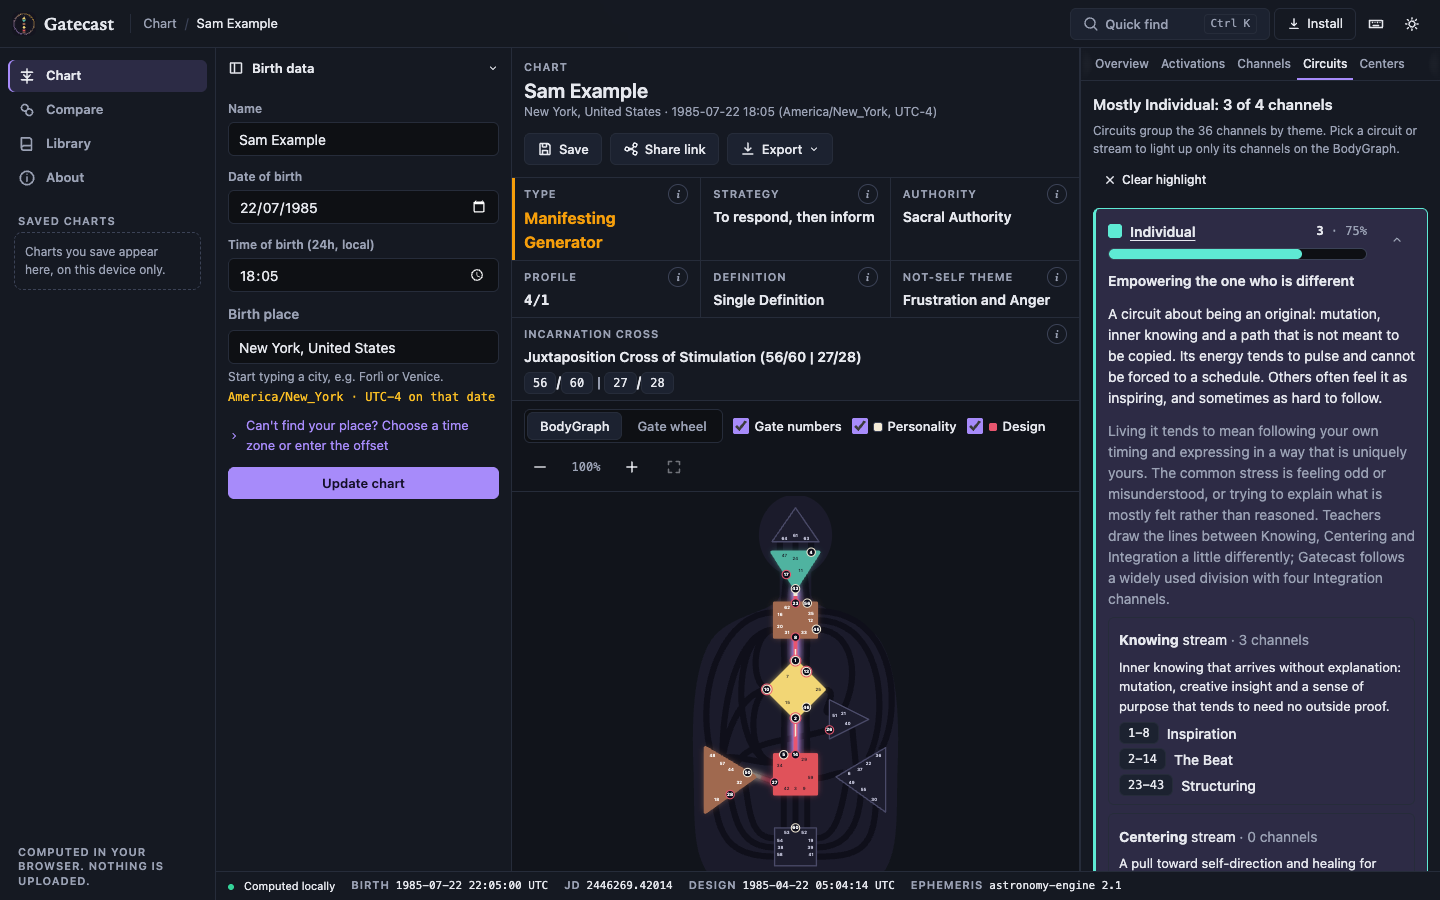
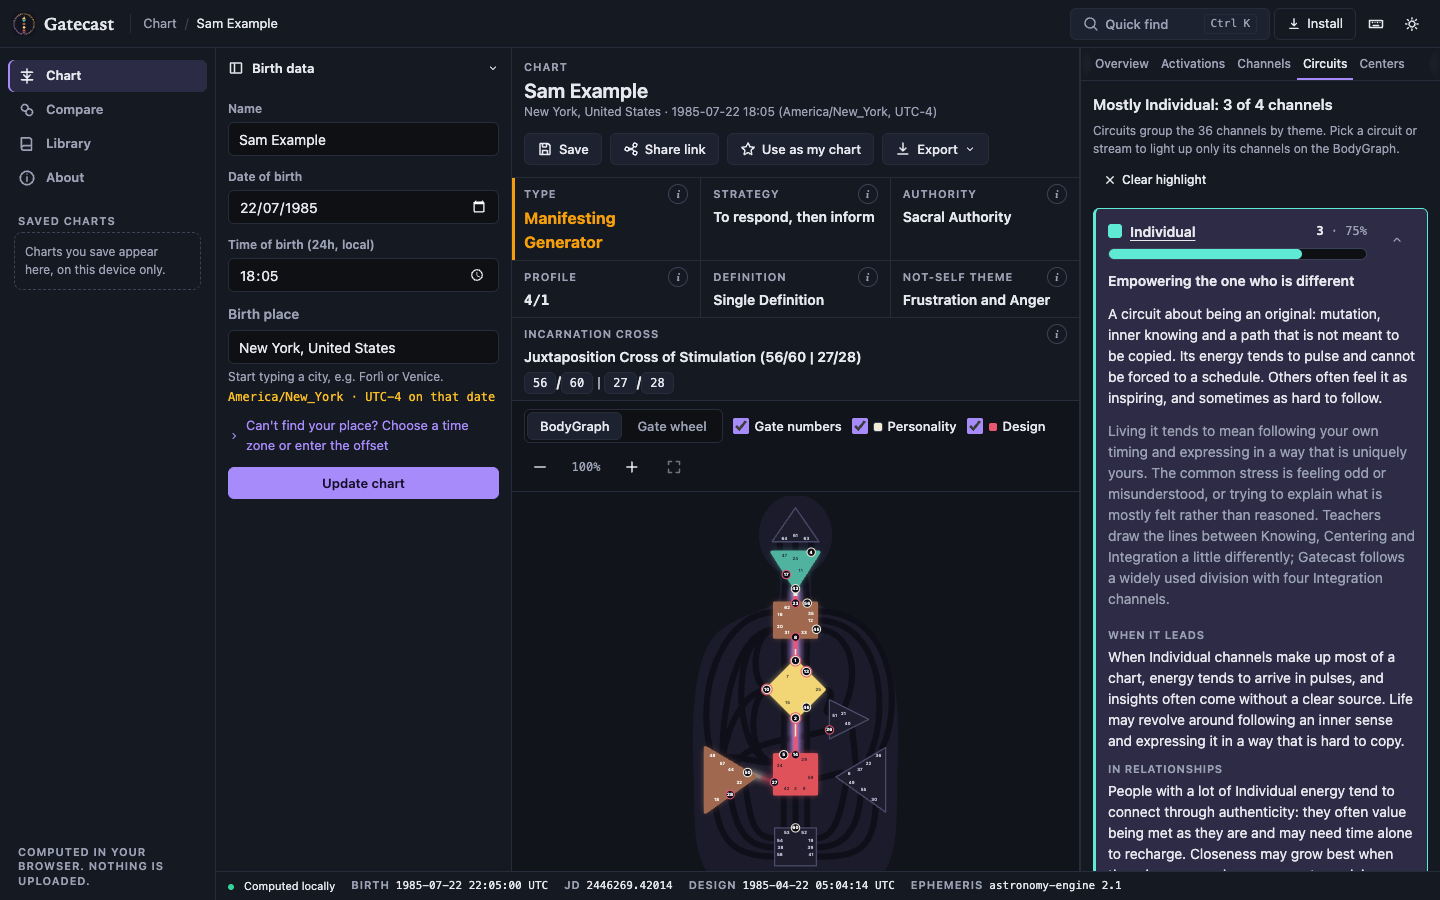
Document the new features, credit the QR library and refresh screenshots
README, About and the roadmap describe what exists, the cross name sources are
described accurately (one complete table, one partial cross-check), and the
screenshots are retaken from the current UI.

Changed region(s): [[0.75, 0.6844, 1.0, 0.9644], [0.5312, 0.1556, 0.5938, 0.1867], [0.625, 0.1556, 0.6562, 0.1867]]

diff --git a/README.md b/README.md
@@ -34,10 +34,14 @@ searchable library, with an info tooltip on everything.
 - **Real astronomy.** Planetary positions come from
   [astronomy-engine](https://github.com/cosinekitty/astronomy) (MIT, arcminute accurate). The engine is
   checked against the Swiss Ephemeris, see [How accuracy is tested](#how-accuracy-is-tested).
-- **Meaning at every level.** Tap a gate and read all six of its lines, with yours marked. Your Incarnation
-  Cross is named (192 crosses, with its angle and quarter), and a Circuits view shows how your channels
-  spread across the Individual, Tribal, Collective and Integration circuits. Pick a circuit and only its
-  channels light up on the BodyGraph.
+- **Meaning at every level.** Tap a gate and read all six of its lines, each with what it looks like when it
+  flows and under pressure, and yours marked. Your Incarnation Cross is named and described (192 crosses,
+  with angle, quarter and gates), and a Circuits view shows how your channels spread across the Individual,
+  Tribal, Collective and Integration circuits, with notes on what a strong or missing circuit tends to mean.
+  Pick a circuit and only its channels light up on the BodyGraph.
+- **The Library knows your chart.** Choose "my chart" and every Library tab marks what is yours: your lines in
+  each gate, your complete channels, defined and open centers, your Type, Authority, Profile, cross and
+  circuits, with a "Mine" filter and "Related" links from every entry.
 - **Search a city, not a time zone.** Type "Forlì", "Venezia" or "Amsterdam": the place sets the time zone,
   and the offset for that date (daylight saving included) is shown. 34,000 cities, searched in a few
   milliseconds, with a time zone and manual-offset fallback.
@@ -47,6 +51,11 @@ searchable library, with an info tooltip on everything.
   birth moment, Julian day and Design moment, so the numbers are auditable.
 - **Installable and offline.** A PWA: install it from Chrome (desktop and Android) or Add to Home Screen on
   iOS. After the first visit it works without a network, including city search.
+- **Made for professional use.** A **share card** (square, portrait, story or link-preview sizes, in Night,
+  Paper or Ink, with an optional QR code to the chart) and a multi-page **client report** (A4 or US Letter,
+  with the sections you choose, page numbers and a disclaimer) that you can print, save as PDF, or download
+  as one self-contained HTML file. Add your own name, contact line and logo; birth details and the QR code are
+  off by default, and nothing is uploaded.
 - **Shareable.** A chart or a comparison is a link. The birth data lives in the URL hash, which browsers
   never send to a server. Export a chart as JSON, SVG or PNG, copy a text summary, or print.
 - **Mobile first.** Bottom tab bar, touch-sized targets, the BodyGraph before the facts, pinch to zoom.
@@ -57,6 +66,11 @@ searchable library, with an info tooltip on everything.
   <img src="docs/screenshots/compare-desktop.png" alt="Comparing two charts" width="450">
 </p>
 <p align="center">
+  <img src="docs/screenshots/share-card.png" alt="The share card dialog" width="450">
+  <img src="docs/screenshots/print-report.png" alt="The print report dialog" width="450">
+</p>
+<p align="center">
+  <img src="docs/screenshots/library-mine.png" alt="The Library marking the lines in the chart" width="450">
   <img src="docs/screenshots/circuits-desktop.png" alt="The Circuits view, with one circuit lit on the BodyGraph" width="450">
   <img src="docs/screenshots/lines-desktop.png" alt="The six lines of a gate, with the chart's own line marked" width="450">
 </p>
@@ -96,6 +110,8 @@ src/
   types.ts      shared contract: Chart, Comparison, Activation...
   engine/       ephemeris, gate wheel, BodyGraph logic, chart and comparison maths
   content/      every meaning: gates, lines, channels, circuits, crosses, tooltips
+                (descriptive text about a gate, line or cross is neutral third person; guidance
+                addresses "you")
   places/       city search: normalising, ranking, formatting, time zones
   ui/           SVG renderers (BodyGraph, wheel, composite), Preact views and components
   pwa.ts        install prompt, update flow and service worker registration
@@ -147,6 +163,8 @@ project path.
 - Astronomical calculations: [astronomy-engine](https://github.com/cosinekitty/astronomy) by Don Cross, MIT.
 - City data: [GeoNames](https://www.geonames.org), licensed
   [CC BY 4.0](https://creativecommons.org/licenses/by/4.0/). Reduced to names, countries and time zones.
+- QR codes: [qrcode-generator](https://github.com/kazuhikoarase/qrcode-generator) by Kazuhiko Arase, MIT.
+  "QR Code" is a registered trademark of Denso Wave.
 - UI: [Preact](https://preactjs.com), MIT.
 
 ## Disclaimer

diff --git a/docs/ROADMAP.md b/docs/ROADMAP.md
@@ -17,13 +17,14 @@ A working list, limited to **content** (what the app says and how much of Human 
 | 5   | Plain-language mode, and clear "what to try" experiments      | Content   | M      |
 | 6   | Link everything: library entries mark what is in _your_ chart | Usability | M      |
 
-Why these: 1, 4 and 6 remove the friction a new person hits in the first five minutes. 2 and 3 are about
+Why these: 1 and 4 remove the friction a new person hits in the first five minutes. 2 and 3 are about
 honesty, since birth time is the biggest source of "my chart looks different in another tool". 5 is the gap
 between a chart and a reading that actually helps someone.
 
-_Done since this list was first written: line-level meanings for all 64 gates, Incarnation Cross names and
-descriptions (all 192), the Circuits view and library tab, and a first version of "link the library to your
-chart" (an "In your chart" badge and a "Mine" filter)._
+_Done since this list was first written: line-level meanings for all 64 gates (with what each looks like when it
+flows and under pressure), all 192 Incarnation Cross names with a description of each, the Circuits view with
+deeper copy and a comparison text for two leading circuits, the Library marking everything in "my chart" with
+related links, and a professional print report and share card._
 
 ## Content
 
@@ -97,13 +98,8 @@ chart" (an "In your chart" badge and a "Mine" filter)._
 
 ### Reading the chart
 
-- **Link the library to your chart.** When a chart is loaded, mark library entries that are active in it
-  ("In your chart"), add a "Mine" filter, and show related items on every page (gate, its channels, its
-  center). Tooltips get a "Learn more" link into the library. _M_
 - **Link tables and drawing both ways.** Hovering a row in the activation table highlights the gate on the
   BodyGraph, and the other way around. _S_
-- **Print and share cards.** A one-page A4 "chart sheet" and a clean image card of the chart with the key
-  facts, for sending to someone. _M_
 - **Bookmarks.** Let people star gates, channels and library entries and keep them with the chart. _S_
 
 ### Accessibility and comfort
@@ -139,5 +135,11 @@ Worth saying out loud so nobody trusts what has not been checked:
 - There is no unknown-birth-time mode and no Variables yet, so the app is a solid reading but not a complete one.
 - The circuit streams follow one widely used division. Teachers draw the lines between Knowing, Centering and
   Integration a little differently (Gatecast uses four Integration channels), and the in-app copy says so.
-- The 384 line meanings and the circuit and cross descriptions are original wording written for this
-  project; they have not had a human proofread.
+- The 384 line meanings, 192 cross descriptions and the circuit copy are original wording written for this
+  project; they have not had a human proofread. Descriptive text about gates, lines and crosses is neutral
+  third person, while older guidance copy (types, centers, circuits) addresses "you": worth unifying.
+- The Incarnation Cross names come from one complete published table, cross-checked against a second, partial
+  one. In the standard tables a Juxtaposition cross and a Left Angle cross of the same Sun gate share their
+  four gates, so those descriptions differ by angle, not by gates.
+- The app bundle has grown to about 640 KB (minified) with all the new copy and the QR library. Loading the
+  lines, crosses and share tools on demand would cut the first load.
